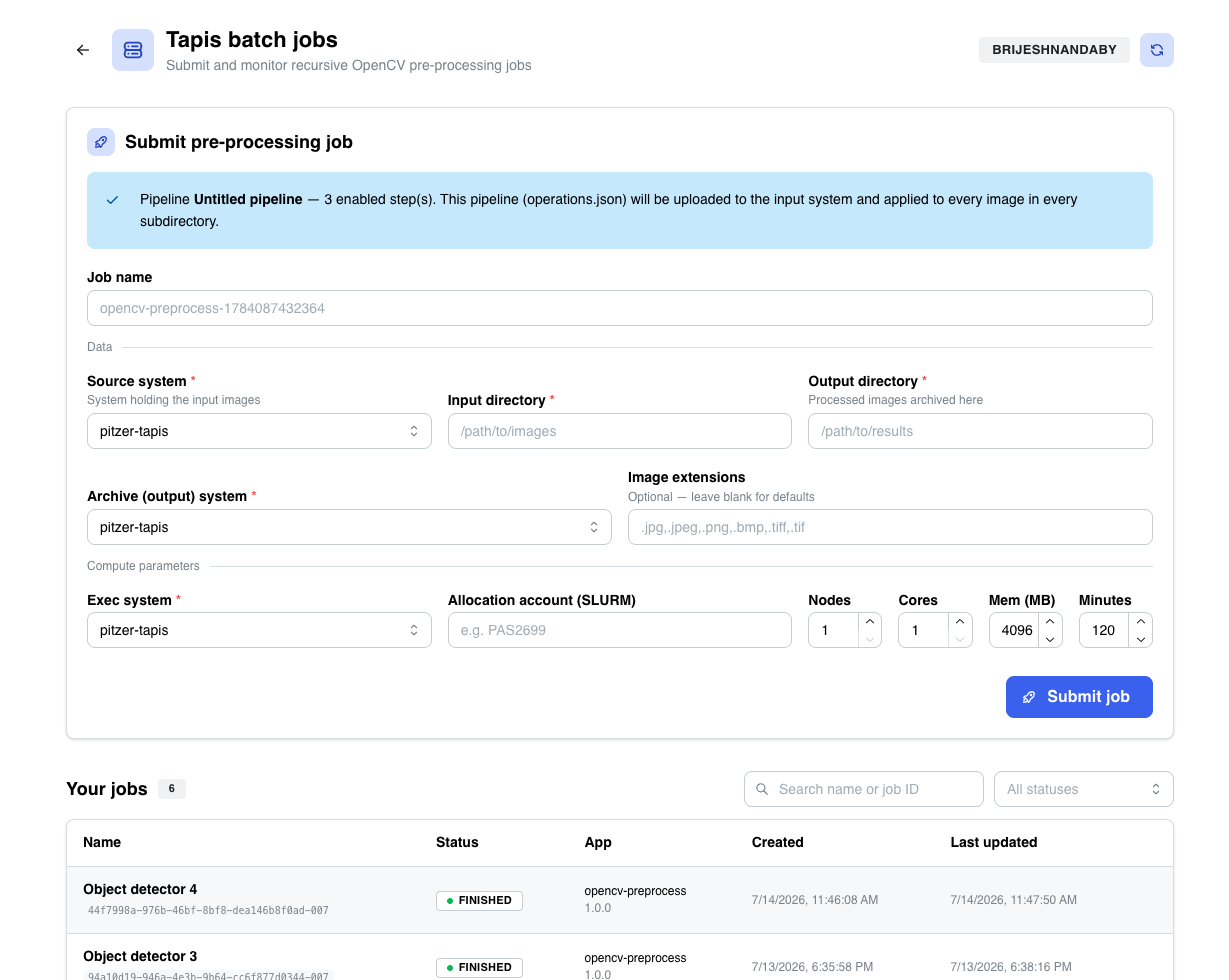
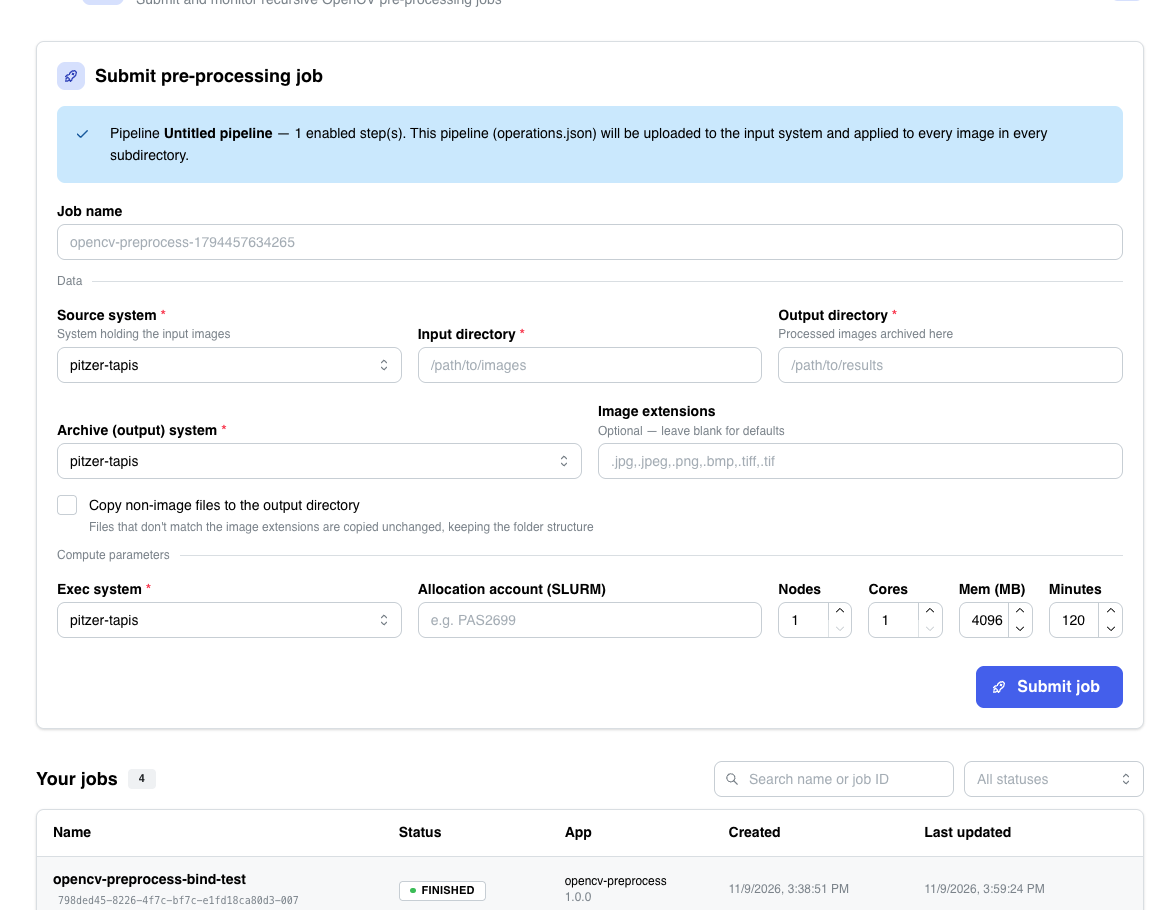
release document updates

diff --git a/HOW_TO_USE.md b/HOW_TO_USE.md
@@ -74,6 +74,8 @@ Fill the form — the pipeline you built in the editor is uploaded automatically
 the pipeline, then POSTs to `/v3/jobs/submit` server-side (your token never
 touches the browser).
 
+By default the job only copies over the processed image files. Check the box (Copy non-image files to the output directory) if other files are required to be copied to the output folder.
+
 When a job reaches `FINISHED`, the processed images (plus a
 `preprocess_summary.json` report) are in your **output directory** on the
 archive system.
